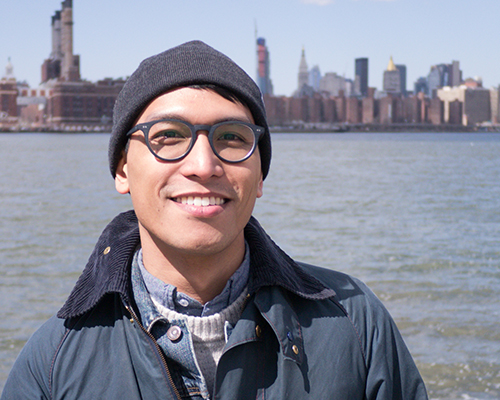
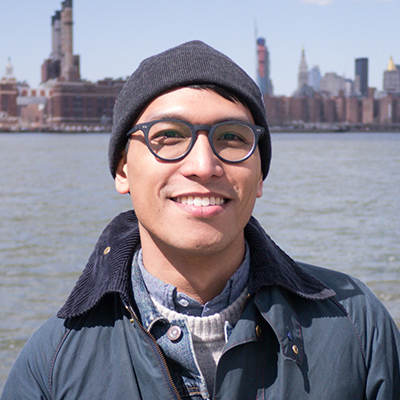
final pages with content

diff --git a/index.html b/index.html
@@ -7,13 +7,13 @@
 <body>
 	<div class="header">
 		<div class="container">
-			<h1>Angelo Florendo</h1>
+			<a href="index.html"><h1>Angelo Florendo</h1></a>
 			<ul class="menu">
 				<li><a href="index.html">About</a></li>
 				<li><a href="portfolio.html">Portfolio</a></li>
-				<li id="contact"><a href="contact.html">Contact</a></li>
+				<li><a href="contact.html" id="contact">Contact</a></li>
 			</ul>
-	</div>
+		</div>
 	</div>
 
 	<div class="container">
@@ -21,31 +21,20 @@
 		<div class="main">
 			<h1>About Me</h1>
 			<hr>
-			<img src="assets/images/profile-pic.jpg" width="200" alt="Angelo profile pic" title="Angelo profile pic">
-			<p>Lorem ipsum dolor sit amet, consectetur adipiscing elit. Integer tincidunt commodo congue. Duis a elit at ex feugiat tincidunt. Etiam nisi massa, elementum sed scelerisque at, facilisis at nibh. In sem eros, porta nec feugiat sed, mattis lobortis erat. Praesent ac elit in risus porttitor ullamcorper. Phasellus porta urna quis orci finibus mollis. Morbi non elit hendrerit, tincidunt eros ut, dictum purus. Maecenas semper lorem vel lectus aliquam placerat. Cum sociis natoque penatibus et magnis dis parturient montes, nascetur ridiculus mus. In viverra enim id massa congue eleifend. Morbi dolor elit, varius ut cursus ac, accumsan ut urna. Donec accumsan libero felis, ac convallis orci convallis pretium.
-
-			Suspendisse potenti. Sed tincidunt interdum lectus, non pharetra velit congue nec. Integer pellentesque ornare orci, fringilla efficitur diam semper eget. Duis non magna non mi tincidunt aliquet. Praesent imperdiet malesuada neque, sit amet rutrum urna congue sit amet. Morbi sit amet viverra risus, at feugiat diam. Phasellus bibendum neque a ipsum facilisis pulvinar.
-
-			Maecenas non tempor risus. Curabitur vehicula placerat ipsum. Praesent dolor nisi, semper ut ipsum eu, maximus ultrices quam. Maecenas vitae risus nunc. Pellentesque facilisis risus diam, quis tincidunt magna auctor congue. Nunc rhoncus felis libero, et efficitur metus sollicitudin eu. Vestibulum aliquet aliquam lectus, sed imperdiet sapien faucibus quis. Aenean tincidunt aliquam est, at mattis diam sodales id. Duis convallis quam a massa tempor bibendum. Sed eget tincidunt velit. Praesent rutrum ex pretium, vestibulum lectus quis, dapibus nulla. Nulla neque erat, ultricies ac augue nec, elementum tincidunt sem. Pellentesque pellentesque interdum varius.
-
-			Maecenas tristique pharetra nisi, vel vulputate elit. Cras eu dignissim nulla. Morbi accumsan, libero ut blandit consectetur, dui mauris porttitor nisl, a condimentum nibh velit non dui. In rutrum condimentum arcu ut vestibulum. Nulla rhoncus purus ac odio egestas, ac consectetur lacus mollis. Etiam id ligula ut tellus blandit mattis in at odio. Morbi malesuada ac velit nec mollis.
-
-			Pellentesque vestibulum, metus non tempor ullamcorper, orci lacus gravida velit, nec lacinia dolor purus vel odio. Pellentesque venenatis, lacus eget dictum hendrerit, lectus justo mattis ex, ac maximus erat velit vitae eros. Maecenas a est dolor. Duis ultrices euismod commodo. Ut feugiat elit nibh, sit amet semper urna malesuada vel. Aenean sed erat egestas, sollicitudin enim a, pretium est. Aenean id viverra ipsum. Quisque vestibulum, nunc vel auctor eleifend, ex mi malesuada odio, ac interdum lorem sapien sit amet elit.
-
-			Nulla eget justo viverra, ornare quam sit amet, congue magna. Nam bibendum, enim et tempor suscipit, lacus sem eleifend risus, eu accumsan neque odio sit amet ligula. Duis sit amet augue vehicula, ultricies ligula eget, elementum odio. Ut eu enim fermentum, gravida purus eget, auctor mauris. Fusce rhoncus nisi ac euismod pellentesque. Nam id maximus massa. Etiam auctor ante sapien, sed tincidunt ipsum facilisis pharetra. Suspendisse mattis velit sit amet neque pellentesque commodo. Quisque sagittis nunc quis justo fermentum vehicula eu et turpis. Phasellus maximus, erat condimentum consequat pharetra, purus lectus ornare arcu, a imperdiet neque nulla at orci. Sed efficitur elit nec libero viverra vestibulum. Interdum et malesuada fames ac ante ipsum primis in faucibus. Cras dapibus nulla at felis auctor blandit. Aenean molestie, neque ut ultrices consectetur, risus lacus ullamcorper eros, scelerisque dignissim turpis ante sed sem. Quisque quis massa eget magna varius accumsan id at sem. Donec dignissim magna ac eros aliquet, hendrerit consectetur velit accumsan.
-
-			Phasellus ullamcorper pretium orci, non mattis lacus sagittis malesuada. Morbi eu mattis erat. Ut id magna ante. Sed molestie ligula et velit ornare commodo. Proin ac tellus suscipit, malesuada arcu sit amet, vestibulum mi. Nulla ut tortor dolor. Integer dui sapien, cursus non felis quis, porttitor vulputate odio. Quisque pharetra quam a lectus volutpat, quis aliquam felis scelerisque. Vivamus iaculis erat tincidunt erat laoreet auctor. Duis eget malesuada felis, sollicitudin sollicitudin lorem. Cras cursus est non lacinia lacinia. Suspendisse potenti.
-
-			Praesent ut ex fringilla, imperdiet mi nec, sollicitudin metus. Nam quis finibus lectus, non pulvinar purus. Fusce convallis et ligula quis facilisis. Aenean commodo nisi ut massa tristique, sit amet egestas nibh vulputate. Sed dignissim eros leo, sed pharetra enim suscipit a. Donec mollis tortor urna, in placerat elit euismod vel. Phasellus mollis, nisi sed ultrices posuere, magna libero sodales mauris, sed fringilla ipsum nulla eu eros. Pellentesque dictum orci ligula. Donec elit neque, venenatis et odio non, pellentesque gravida metus.
-
-			Vivamus eu sem faucibus, iaculis eros non, tempor mi. Aenean blandit mi non tellus vehicula, in sagittis felis bibendum. Ut sit amet ligula quam. Maecenas odio nisi, commodo a interdum vitae, accumsan quis nisl. Suspendisse porta gravida ipsum, vitae rhoncus lectus egestas eu. In id iaculis mi, in tempor orci. Fusce a orci rhoncus, rutrum metus et, luctus odio. Mauris elementum lectus at nulla condimentum molestie. Nunc sit amet felis neque. Donec interdum varius gravida. Donec molestie, nunc sed vestibulum tristique, dolor mi condimentum libero, eu posuere sem lectus sed velit. Maecenas lacus massa, tristique at dignissim in, vulputate vitae lacus. Donec at mi ornare elit lobortis vestibulum. Nunc sed consectetur libero. Sed sodales a justo ac malesuada.
-
-			Nulla feugiat, lacus in aliquet pulvinar, odio turpis congue nisi, sit amet lobortis augue justo sit amet enim. Vivamus sapien sem, porta vitae libero non, sodales sollicitudin quam. Nulla facilisi. Etiam euismod massa quis nisl varius tristique. Phasellus et nunc sagittis, faucibus elit sed, convallis orci. Praesent erat tortor, maximus et dapibus sed, porttitor eu nunc. Sed hendrerit ullamcorper convallis. Morbi ut ligula nec felis molestie hendrerit at et nibh. Nam ultricies dapibus diam, sit amet malesuada nunc fringilla ut. Fusce vestibulum diam in quam faucibus aliquam. Suspendisse potenti. Sed eget tellus lectus. Suspendisse potenti. Fusce euismod erat turpis, sed mollis est tempus et. Morbi mattis massa non est aliquet, sed hendrerit ex eleifend. Proin sem purus, rhoncus a odio sit amet, mollis elementum purus.</p>
+			<img id="profile-pic" src="assets/images/profile-pic.jpg" width="200" alt="Angelo profile pic" title="Angelo profile pic">
+			<p>Angelo has worked in business development with tech and biotech companies for years and is now rolling up his sleeves to learn how to code at Northwestern. While working on his honors degree in Biotechnology with a minor in Philosophy at the University of Waterloo, he spent most of his free time holding editorial positions at the student newspaper.</p>
+			
+			<p>Out of school, he began his career in business development and joined a biotech startup where he worked with forensic labs and hospitals across Canada. He later moved into analytical labs and worked with the world’s largest engineering firms. Finally, after moving to Chicago, he transitioned into tech where he has served as a Major Accounts Exec at one of Chicago’s largest tech companies and as the Regional Sales Exec at a plucky EdTech startup.</p>
+			
+			<p>In his free time, Angelo has continued graphic design work since his days at the newspaper, and now has over 10-years’ experience working with Adobe CC on freelance and personal projects. He also loves music, and after spending years as a music journalist, he stage managed for some of North America’s largest summer festivals.</p>
+			
+			<p>Originally from Toronto but now married to a native Chicagoan, he dreads any potential games between the Blackhawks and Maple Leafs or Bulls and Raptors. At least we can all agree on Drake.
+			</p>
 		</div>
 		
 		<div class="sidebar">
 			<h2>Conenct with Me</h2>
-			<hr id="social-line">
+			<hr>
 			<a href="https://github.com/aflorend/" target="_blank"><img src="assets/images/git.jpg" alt="Github" title="Github"></a>
 			<a href="https://www.linkedin.com/in/aflorendo/" target="_blank"><img src="assets/images/linkedin.jpg" alt="Linkedin" title="Linkedin"></a>
 			<a href="http://stackoverflow.com/users/7381092/aflorend" target="_blank"><img src="assets/images/stack.jpg" alt="Stackoverflow" title="Stackoverflow"></a>

diff --git a/assets/css/style.css b/assets/css/style.css
@@ -44,52 +44,40 @@ h2 {
 }
 
 .menu {
-	margin: 0;
-	display: inline-flex;
+	list-style-type: none;
 	float: right;
-	height: 55px;
-	align-items: center;
-	margin-top: 10px;
-	margin-bottom: 10px
 }
 
 .menu li {
-	display: inline;
-	margin-top: 0;
-	margin-bottom: 0;
-	padding-left: 20px;
-	padding-right: 20px;
-	padding-top: 5px;
-	padding-bottom: 5px;
-	color: #929292;
-	transition: background-color 0.5s ease;
-	border-right-style: solid;
-	border-right-width: 1px;
-	border-right-color: #929292;
-}
-
-#contact {
-	border-right-width: 0;
+	float: left;
 }
 
 .menu a {
-	color: #000;
+	display: block;
+	padding: 10px;
 	text-decoration: none;
-}
-
-.menu li:hover {
-	background-color: #4aaaa5;
-	color: #fff;
+	color: #929292;
+	border-right-width: 1px;
+	border-right-style: solid;
+	border-right-color: #929292;
+	transition: background-color 0.5s ease-in-out;
 }
 
 #contact {
-	border-right-width: 0;
+	border-right: none;
+}
+
+.menu a:hover {
+	background-color: #4aaaa5;
+	color: #fff;
 }
 
 .main {
 	background-color: #fff;
 	padding: 30px;
+	padding-bottom: 20px;
 	margin-top: 30px;
+	margin-bottom: 200px;
 	float: left;
 	width: 590px;
 	border-color: #ddd;
@@ -98,8 +86,10 @@ h2 {
 }
 
 .main hr {
-	border-top-width: 3px;
-	border-top-color: #ddd;
+	height: 3px;
+	background: #B762A8;
+	border: 0;
+	margin-bottom: 16px;
 }
 
 .main h1 {
@@ -107,20 +97,21 @@ h2 {
 	color: #4aaaa5;
 }
 
-.main img {
-	margin-top: 20px;
+#profile-pic {
 	margin-right: 20px;
-	margin-bottom: 20px;
+	margin-bottom: 10px;
 	float: left;
+	border-radius: 50%;
 }
 
 .main p {
-	margin-top: 25px;
+	text-align: justify;
 }
 
-#social-line {
-	border-top-width: 2px;
-	border-top-color: #ddd;
+.sidebar hr {
+	height: 2px;
+	background: #B762A8;
+	border: 0;
 }
 
 .sidebar {
@@ -144,7 +135,7 @@ h2 {
 	margin-top: 5px;
 	width: 31.91%;
 	opacity: 0.5;
-	transition: opacity 0.5s;
+	transition: opacity 0.5s ease-in-out;
 }
 
 .sidebar img:hover {
@@ -165,6 +156,11 @@ footer {
 	display: flex;
 	align-items: center;
 	justify-content: center;
+	z-index: 5000;
+}
+
+form {
+	margin-bottom: 20px;
 }
 
 input[type=text] {
@@ -200,7 +196,7 @@ input#submit {
 	font-size: 1em;
 	color: #fff;
 	margin-top: 10px;
-	transition: background-color 0.5s ease;
+	transition: background-color 0.5s ease-in-out;
 }
 
 input#submit:hover {
@@ -212,6 +208,7 @@ input#submit:hover {
 	padding: 0;
 	position: relative;
 	width: 292px;
+	height: 233.6px;
 	transition: all 0.5s ease-in-out;
 	opacity: 0.8;
 }
@@ -219,12 +216,17 @@ input#submit:hover {
 .portfolio-pics img {
 	width: 292px;
 	float: left;
-	margin: auto;
-	margin-bottom: 20px;
 }
 
 .portfolio-pics:hover {
-	opacity: 1.0;
+	/*opacity: 1.0;*/
+	transform: scale(1.05);
+	opacity: 1;
+	z-index: 1000;
+	outline-style: solid;
+	outline-width: 2px;
+	outline-color: #4aaaa5;
+	outline-offset: -1px;
 }
 
 .caption {

diff --git a/contact.html b/contact.html
@@ -5,15 +5,15 @@
 	<title>Angelo Florendo's Porfolio</title>
 </head>
 <body>
-		<div class="header">
+	<div class="header">
 		<div class="container">
-			<h1>Angelo Florendo</h1>
+			<a href="index.html"><h1>Angelo Florendo</h1></a>
 			<ul class="menu">
 				<li><a href="index.html">About</a></li>
 				<li><a href="portfolio.html">Portfolio</a></li>
-				<li id="contact"><a href="contact.html">Contact</a></li>
+				<li><a href="contact.html" id="contact">Contact</a></li>
 			</ul>
-	</div>
+		</div>
 	</div>
 
 	<div class="container">
@@ -25,11 +25,11 @@
 			<form>
 				Name
 				<br>
-				<input type="text" name="firstname" value="John Smith">
+				<input type="text" name="firstname" value="John Smith" onfocus="this.value='';">
 				<br>
 				Email
 				<br>
-				<input type="text" name="email" value="example@gmail.com">
+				<input type="text" name="email" value="example@gmail.com" onfocus="this.value='';">
 				<br>
 				Message
 				<br>
@@ -42,7 +42,7 @@
 		
 		<div class="sidebar">
 			<h2>Conenct with Me</h2>
-			<hr id="social-line">
+			<hr>
 			<a href="https://github.com/aflorend/" target="_blank"><img src="assets/images/git.jpg" alt="Github" title="Github"></a>
 			<a href="https://www.linkedin.com/in/aflorendo/" target="_blank"><img src="assets/images/linkedin.jpg" alt="Linkedin" title="Linkedin"></a>
 			<a href="http://stackoverflow.com/users/7381092/aflorend" target="_blank"><img src="assets/images/stack.jpg" alt="Stackoverflow" title="Stackoverflow"></a>

diff --git a/portfolio.html b/portfolio.html
@@ -7,13 +7,13 @@
 <body>
 	<div class="header">
 		<div class="container">
-			<h1>Angelo Florendo</h1>
+			<a href="index.html"><h1>Angelo Florendo</h1></a>
 			<ul class="menu">
 				<li><a href="index.html">About</a></li>
 				<li><a href="portfolio.html">Portfolio</a></li>
-				<li id="contact"><a href="contact.html">Contact</a></li>
+				<li><a href="contact.html" id="contact">Contact</a></li>
 			</ul>
-	</div>
+		</div>
 	</div>
 
 	<div class="container">
@@ -61,7 +61,7 @@
 		
 		<div class="sidebar">
 			<h2>Conenct with Me</h2>
-			<hr id="social-line">
+			<hr>
 			<a href="https://github.com/aflorend/" target="_blank"><img src="assets/images/git.jpg" alt="Github" title="Github"></a>
 			<a href="https://www.linkedin.com/in/aflorendo/" target="_blank"><img src="assets/images/linkedin.jpg" alt="Linkedin" title="Linkedin"></a>
 			<a href="http://stackoverflow.com/users/7381092/aflorend" target="_blank"><img src="assets/images/stack.jpg" alt="Stackoverflow" title="Stackoverflow"></a>
